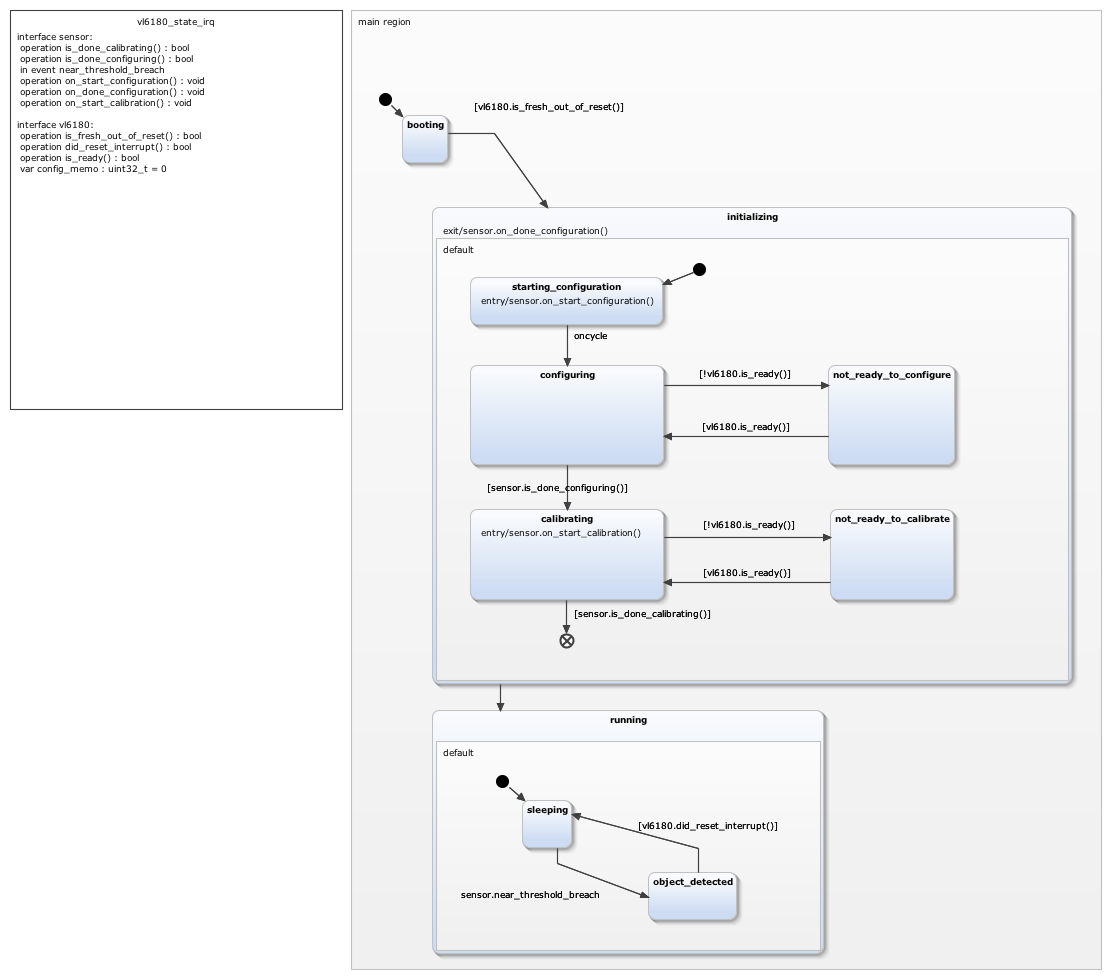
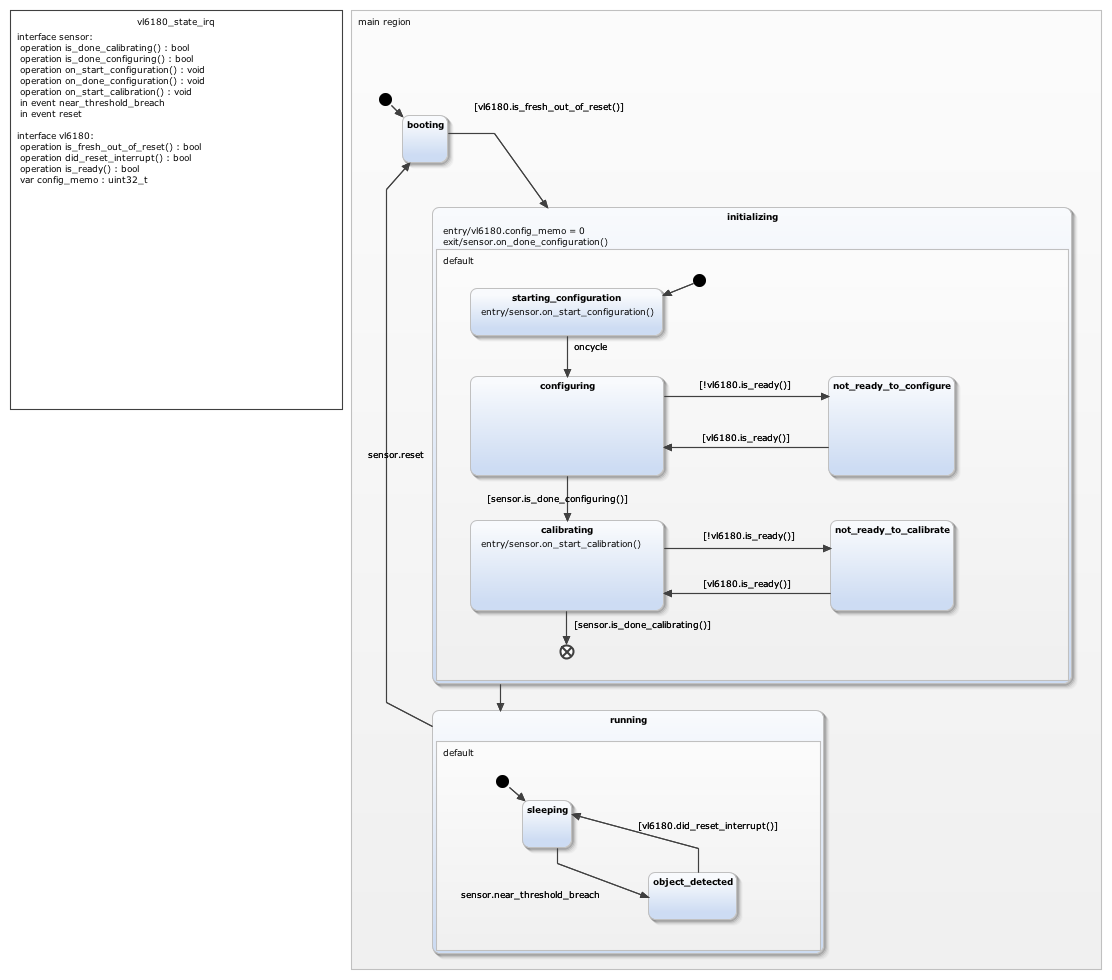
Fixing sensor reset

diff --git a/FRDMK66NoEr/source/main.c b/FRDMK66NoEr/source/main.c
@@ -48,30 +48,40 @@ int main()
     LED_BLUE_INIT(1);
 
     TOFDriver *tof = (TOFDriver *)&get_instance_vl6180()->super;
-    while (0 != tof->enable_continuous_ranging(tof)) {
-        tof->service(tof);
-    }
-    LED_RED_OFF();
-
-    uint8_t range, range_status;
-    status_t bus_status;
     while (1) {
-        LED_BLUE_ON();
-
-        tof->service(tof);
-        bus_status = tof->get_range(tof, &range, &range_status);
-        if (!bus_status) {
-            if (!(0xF0 & range_status) && range > 0) {
-                LED_RED_ON();
-            } else {
-                LED_RED_OFF();
-            }
-            PRINTF("RANGE: %d, %s\n", range, tof->get_range_status_description(range_status >> 4));
-        } else {
-            PRINTF("BUS ERROR: %d\n", bus_status);
+        LED_RED_ON();
+        while (0 != tof->enable_continuous_ranging(tof)) {
+            tof->service(tof);
         }
-        Delay(100);
+        LED_RED_OFF();
+
+        uint8_t range, range_status;
+        status_t bus_status;
+        while (1) {
+            LED_BLUE_ON();
+
+            tof->service(tof);
+            bus_status = tof->get_range(tof, &range, &range_status);
+            if (!bus_status) {
+                if (!(0xF0 & range_status) && range > 0) {
+                    LED_RED_ON();
+                } else {
+                    LED_RED_OFF();
+                }
+                PRINTF("RANGE: %d, %s\n", range,
+                       tof->get_range_status_description(range_status >> 4));
+            } else {
+                PRINTF("BUS ERROR: %d\n", bus_status);
+                goto TOF_RESET;
+            }
+            Delay(100);
+            LED_BLUE_OFF();
+            Delay(100);
+        }
+    TOF_RESET:
         LED_BLUE_OFF();
-        Delay(100);
+        LED_GREEN_OFF();
+        LED_RED_OFF();
+        tof->reset(tof);
     }
 }

diff --git a/FRDMK66NoEr/source/vl6180/VL6180.c b/FRDMK66NoEr/source/vl6180/VL6180.c
@@ -288,6 +288,12 @@ static void _vl6180_service(TOFDriver *self)
     vl6180_state_irq_runCycle((Vl6180_state_irq *)driver_private);
 }
 
+static void _vl6180_reset(TOFDriver *self)
+{
+    VL6180Private *driver_private = (VL6180Private *)((VL6180 *)self)->_private;
+    vl6180_state_irqIfaceSensor_raise_reset((Vl6180_state_irq *)driver_private);
+}
+
 // +---------------------------------------------------------------------------+
 // | VL6180::PUBLIC
 // +---------------------------------------------------------------------------+
@@ -323,6 +329,7 @@ static VL6180 *init_vl6180(VL6180 *driver)
         I2C_MasterInit(I2C1, &_singleton_private.sensor_bus_config, CLOCK_GetFreq(I2C1_CLK_SRC));
 
         driver->super.service                      = _vl6180_service;
+        driver->super.reset                        = _vl6180_reset;
         driver->super.enable_continuous_ranging    = _vl6180_enable_continuous_ranging;
         driver->super.get_range                    = _vl6180_get_range;
         driver->super.get_range_status_description = _vl6180x_get_error_description;

diff --git a/FRDMK66NoEr/include/TOF.h b/FRDMK66NoEr/include/TOF.h
@@ -13,6 +13,8 @@ struct _TOFDriver;
 typedef struct _TOFDriver {
     void (*service)(struct _TOFDriver *self);
 
+    void (*reset)(struct _TOFDriver *self);
+
     status_t (*enable_continuous_ranging)(struct _TOFDriver *self);
 
     status_t (*get_range)(struct _TOFDriver *self, uint8_t *out_range, uint8_t *out_range_status);
